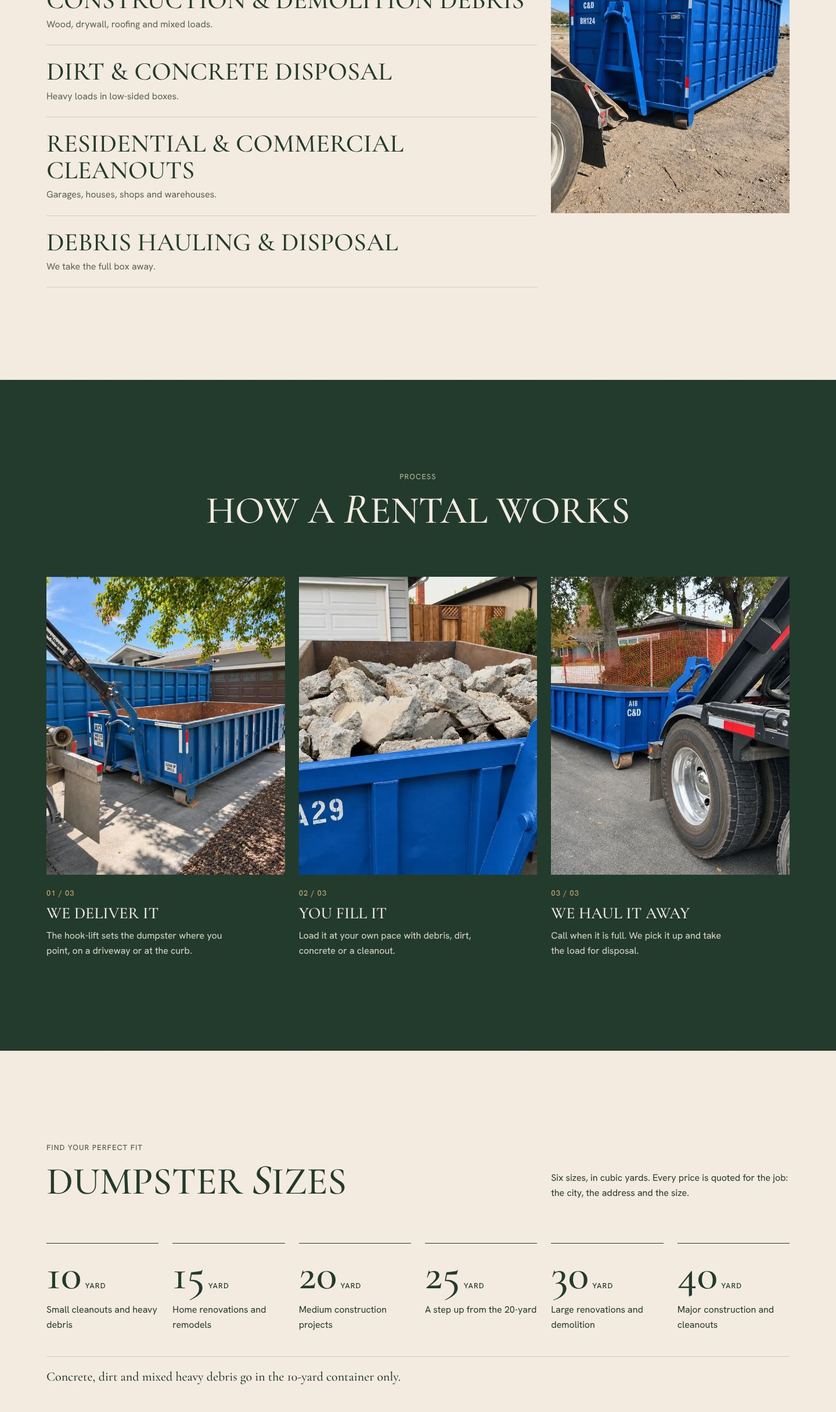
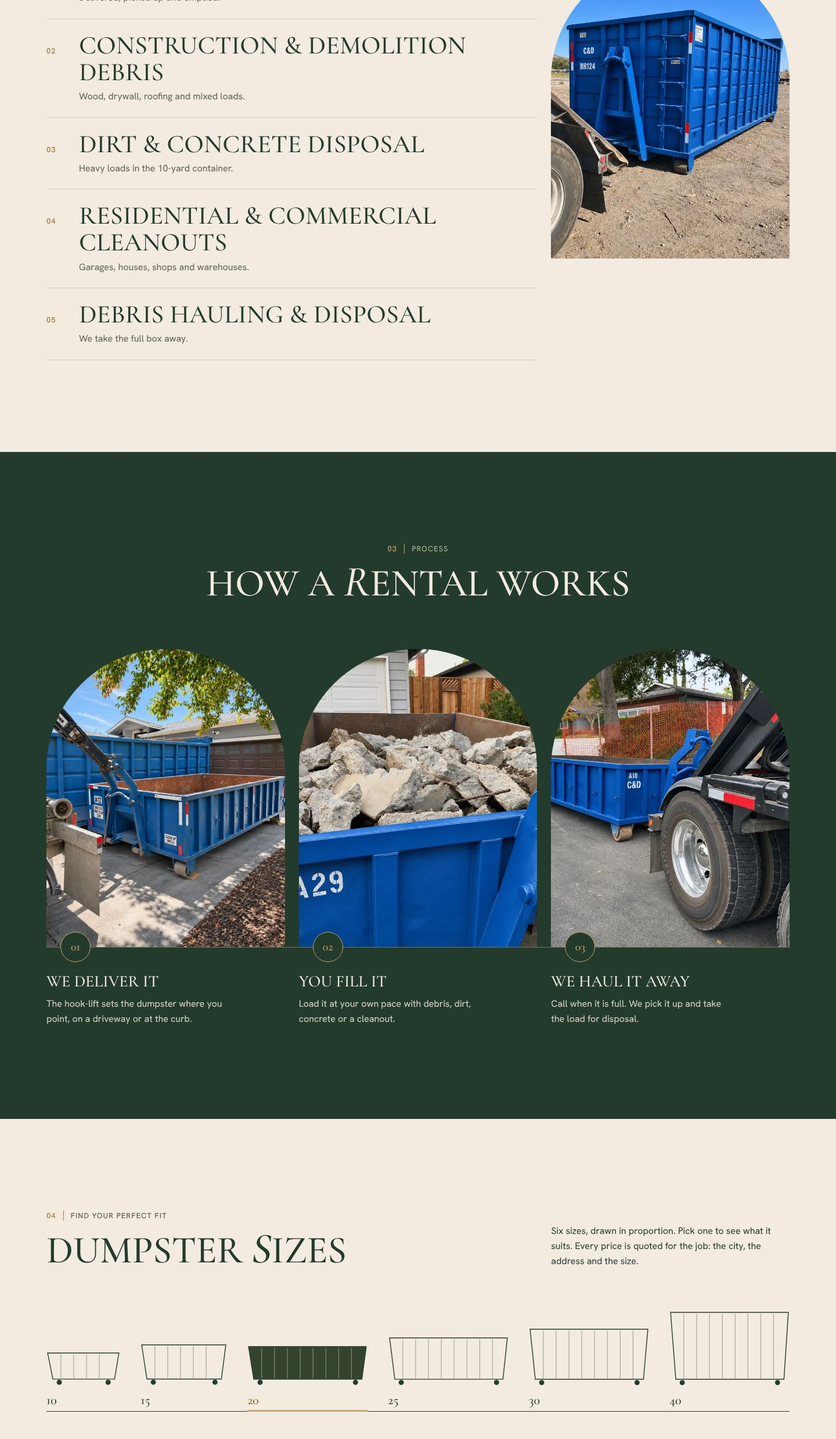
Landing page: add signature elements
Gold halo arc over the hero truck, rotating quote seal, arched photos,
numbered section labels and service rows, a to-proportion size picker
and a region picker for the service area.

Claude-Session: https://claude.ai/code/session_01D1zbuP5dsXHYhoAWNQLH19

diff --git a/index.html b/index.html
@@ -1,5 +1,5 @@
 <!doctype html>
-<html lang="en">
+<html lang="en" class="no-js">
 <head>
 <meta charset="utf-8">
 <meta name="viewport" content="width=device-width, initial-scale=1, viewport-fit=cover">
@@ -17,6 +17,7 @@
 <link rel="preconnect" href="https://fonts.googleapis.com">
 <link rel="preconnect" href="https://fonts.gstatic.com" crossorigin>
 <link href="https://fonts.googleapis.com/css2?family=Cormorant+Garamond:ital,wght@0,500;1,500&family=Hanken+Grotesk:wght@400;500&display=swap" rel="stylesheet">
+<script>document.documentElement.classList.remove("no-js")</script>
 <style>
 :root {
   --cream: #f3eae0; --sand: #e8decf; --forest: #233b2c; --olive: #35442f; --sage: #a5ac8b; --gold: #c6a66b;
@@ -43,6 +44,9 @@ ul, ol { list-style: none; }
 .h2 { font: 500 clamp(36px, 4.6vw, 68px)/1 var(--serif); letter-spacing: -.005em; text-transform: uppercase; }
 .display em, .h2 em { font-style: italic; text-transform: none; font-size: 1.12em; line-height: 0; }
 .label { font: 500 13px/1.4 var(--sans); letter-spacing: .08em; text-transform: uppercase; color: var(--muted); }
+.label > span { color: var(--gold); margin-right: 12px; padding-right: 12px; border-right: 1px solid currentColor; }
+.dark .label > span, .label > span { color: #9a7a35; }
+.dark .label > span { color: var(--gold); }
 .lead { font-size: 18px; line-height: 1.6; max-width: 46ch; }
 .caps { font: 500 13px/1.3 var(--sans); letter-spacing: .08em; text-transform: uppercase; }
 
@@ -91,14 +95,31 @@ section { padding-block: clamp(80px, 11vw, 160px); }
 .hero__sub { margin: 28px auto 0; max-width: 52ch; font-size: 18px; }
 .hero__tags { margin-top: 14px; color: var(--muted); }
 .hero__actions { display: flex; justify-content: center; gap: 12px; flex-wrap: wrap; margin-top: 36px; }
-.hero__row { margin-top: clamp(56px, 7vw, 96px); display: grid; grid-template-columns: 1fr minmax(0, 980px) 1fr; gap: 24px; align-items: center; overflow: hidden; }
+.hero__row { margin-top: clamp(24px, 3vw, 40px); padding: clamp(56px, 7vw, 96px) 0 84px; display: grid; grid-template-columns: 1fr minmax(0, 980px) 1fr; gap: 24px; align-items: center; overflow: hidden; }
 .hero__row img { width: 100%; object-fit: cover; }
 .hero__row .side { height: clamp(320px, 33vw, 470px); }
 .hero__row .side--l img { object-position: 100% 50%; height: 100%; }
 .hero__row .side--r img { object-position: 0% 50%; height: 100%; }
 .hero__row .main img { aspect-ratio: 1.75; }
+.hero__row .main { position: relative; }
+.halo { position: absolute; left: -7%; width: 114%; top: clamp(-84px, -6vw, -40px); pointer-events: none; overflow: visible; }
+.halo path { fill: none; stroke: var(--gold); stroke-width: 1.6; vector-effect: non-scaling-stroke; }
+.hero__row .side, .hero__row .main picture { position: relative; z-index: 1; display: block; }
+.seal { z-index: 2; }
+.seal { position: absolute; right: -58px; bottom: -62px; width: 148px; height: 148px; border-radius: 50%; background: var(--forest); color: var(--cream); display: grid; place-items: center; text-decoration: none; transition: background-color .25s var(--ease); }
+.seal:hover { background: var(--olive); }
+.seal__ring { position: absolute; inset: 0; width: 100%; height: 100%; animation: spin 26s linear infinite; }
+.seal__ring text { font: 500 15.5px var(--sans); letter-spacing: .12em; fill: currentColor; }
+.seal__arrow { width: 34px; height: 34px; fill: none; stroke: var(--gold); stroke-width: 1.4; transition: transform .3s var(--ease); }
+.seal:hover .seal__arrow { transform: translate(3px, -3px); }
+@keyframes spin { to { transform: rotate(360deg); } }
+.is-still .seal__ring, .is-still .marquee__track { animation-play-state: paused; }
+@media (max-width: 1199px) { .seal { right: 16px; } }
 @media (max-width: 639px) {
-  .hero__row { grid-template-columns: 1fr; padding-inline: var(--gut); }
+  .hero__row { grid-template-columns: 1fr; padding-inline: var(--gut); padding-bottom: 64px; }
+  .seal { width: 112px; height: 112px; right: 12px; bottom: -48px; }
+  .seal__arrow { width: 26px; height: 26px; }
+  .halo { left: -4%; width: 108%; top: -34px; }
   .hero__row .side { display: none; }
   .hero__row .main img { aspect-ratio: 1; }
   .hero__actions .btn { flex: 1 1 100%; }
@@ -106,6 +127,7 @@ section { padding-block: clamp(80px, 11vw, 160px); }
 
 /* intro: label and heading left, words right */
 .split { display: grid; grid-template-columns: repeat(12, minmax(0, 1fr)); gap: 24px; }
+.intro { position: relative; overflow: hidden; }
 .intro__head { grid-column: 1 / span 6; }
 .intro__head .h2 { margin-top: 16px; }
 .intro__body { grid-column: 8 / span 5; padding-top: 34px; display: grid; gap: 32px; }
@@ -121,13 +143,16 @@ section { padding-block: clamp(80px, 11vw, 160px); }
 .services__head .h2 { margin-top: 16px; }
 .services__grid { display: grid; grid-template-columns: repeat(12, minmax(0, 1fr)); gap: 24px; align-items: start; }
 .svc { grid-column: 1 / span 8; }
-.svc li { padding: 22px 0; border-bottom: 1px solid var(--line); transition: opacity .25s var(--ease); }
+.svc li { display: grid; grid-template-columns: 56px minmax(0, 1fr); align-items: baseline; padding: 22px 0; border-bottom: 1px solid var(--line); position: relative; transition: opacity .25s var(--ease), padding-left .35s var(--ease); }
+.svc li::after { content: ""; position: absolute; left: 0; bottom: -1px; height: 1px; width: 0; background: var(--gold); transition: width .5s var(--ease); }
+.svc__n { font: 500 13px/1 var(--sans); letter-spacing: .08em; color: #9a7a35; }
+@media (hover: hover) { .svc li:hover { padding-left: 16px; } .svc li:hover::after { width: 100%; } }
 .svc li:first-child { padding-top: 0; }
 .svc h3 { font: 500 clamp(26px, 3.1vw, 44px)/1.05 var(--serif); text-transform: uppercase; }
 .svc p { margin-top: 6px; color: var(--muted); }
 @media (hover: hover) { .svc:hover li:not(:hover) { opacity: .45; } }
 .services__photo { grid-column: 9 / span 4; position: sticky; top: calc(var(--nav) + 24px); }
-.services__photo img { width: 100%; aspect-ratio: 4 / 5; object-fit: cover; }
+.services__photo img { width: 100%; aspect-ratio: 4 / 5; object-fit: cover; border-radius: 999px 999px 0 0; }
 @media (max-width: 1023px) { .svc { grid-column: 1 / -1; } .services__photo { grid-column: 1 / -1; position: static; } .services__photo img { aspect-ratio: 4 / 3; } }
 
 /* process: the dark band */
@@ -136,9 +161,11 @@ section { padding-block: clamp(80px, 11vw, 160px); }
 .process__head { text-align: center; margin-bottom: clamp(48px, 6vw, 80px); }
 .process__head .h2 { margin-top: 16px; }
 .steps { display: grid; grid-template-columns: repeat(3, minmax(0, 1fr)); gap: 24px; }
-.step img { width: 100%; aspect-ratio: 4 / 5; object-fit: cover; }
-.step__n { display: block; margin-top: 24px; color: var(--gold); }
-.step h3 { margin-top: 10px; font: 500 28px/1.1 var(--serif); text-transform: uppercase; }
+.step { position: relative; }
+.step img { width: 100%; aspect-ratio: 4 / 5; object-fit: cover; border-radius: 999px 999px 0 0; }
+.step__n { position: relative; z-index: 1; display: grid; place-items: center; width: 52px; height: 52px; margin: -26px 0 0 24px; border-radius: 50%; background: var(--forest); border: 1px solid var(--gold); color: var(--gold); font: 500 20px/1 var(--serif); }
+@media (min-width: 1024px) { .steps::before { content: ""; position: absolute; left: 0; right: 0; height: 1px; background: var(--gold); opacity: .55; top: var(--line-y, 0); } .steps { position: relative; } }
+.step h3 { margin-top: 18px; font: 500 28px/1.1 var(--serif); text-transform: uppercase; }
 .step p { margin-top: 10px; max-width: 34ch; color: #dcd6c9; }
 @media (max-width: 1023px) { .steps { grid-template-columns: 1fr; gap: 56px; } .step { display: grid; grid-template-columns: minmax(0, 5fr) minmax(0, 7fr); column-gap: 24px; align-content: end; } .step img { grid-row: 1 / span 4; } .step > :not(img) { grid-column: 2; } }
 @media (max-width: 639px) { .step { display: block; } }
@@ -171,13 +198,47 @@ section { padding-block: clamp(80px, 11vw, 160px); }
 @media (max-width: 1023px) { .mat__col:first-child, .mat__col:last-child { grid-column: 1 / -1; } }
 
 /* service area: on the dark band */
-.regions { display: grid; grid-template-columns: repeat(2, minmax(0, 1fr)); gap: 0 24px; }
-.regions > div { padding: 28px 0; border-top: 1px solid rgba(243, 234, 224, .22); }
-.regions > div:nth-child(3) { grid-column: 1 / -1; }
-.regions dt { font: 500 28px/1.1 var(--serif); text-transform: uppercase; margin-bottom: 12px; }
-.regions dd { color: #dcd6c9; max-width: 110ch; }
-.areas__note { margin-top: 8px; padding-top: 28px; border-top: 1px solid rgba(243, 234, 224, .22); color: var(--sage); }
-@media (max-width: 767px) { .regions { grid-template-columns: 1fr; } }
+.regions { display: grid; grid-template-columns: repeat(12, minmax(0, 1fr)); gap: 32px 24px; align-items: start; }
+.regions__tabs { grid-column: 1 / span 6; display: grid; }
+.regions__tabs button { all: unset; box-sizing: border-box; cursor: pointer; display: block; padding: 14px 0; border-top: 1px solid rgba(243, 234, 224, .22);
+  font: 500 clamp(26px, 3.2vw, 46px)/1.05 var(--serif); text-transform: uppercase; color: rgba(243, 234, 224, .42); transition: color .25s var(--ease), padding-left .35s var(--ease); }
+.regions__tabs button:last-child { border-bottom: 1px solid rgba(243, 234, 224, .22); }
+.regions__tabs sup { font: 500 13px/1 var(--sans); letter-spacing: .08em; color: var(--gold); margin-left: 10px; vertical-align: .9em; }
+.regions__tabs button:hover { color: rgba(243, 234, 224, .8); }
+.regions__tabs button[aria-selected="true"] { color: var(--cream); padding-left: 20px; }
+.regions__tabs button:focus-visible { outline: 2px solid var(--gold); outline-offset: 2px; }
+.regions__panels { grid-column: 8 / span 5; padding-top: 14px; }
+.regions__panels p { font-size: 18px; line-height: 1.75; color: #e6e0d3; }
+.no-js .regions__panels p[hidden] { display: block; margin-top: 20px; }
+.areas__note { margin-top: 40px; color: var(--sage); }
+@media (max-width: 1023px) { .regions__tabs, .regions__panels { grid-column: 1 / -1; } .regions__panels { padding-top: 0; min-height: 9em; } .regions__tabs button[aria-selected="true"] { padding-left: 12px; } }
+
+.sizer { display: grid; gap: 40px; }
+.arrow-link { display: inline-flex; align-items: center; gap: 32px; padding-bottom: 6px; border-bottom: 1px solid currentColor; text-decoration: none; }
+.arrow-link svg { width: 16px; height: 16px; flex: none; transition: transform .25s var(--ease); }
+.arrow-link:hover svg { transform: translateX(4px); }
+.sizer__detail { display: grid; grid-template-columns: auto minmax(0, 1fr) auto; gap: 24px 56px; align-items: end; }
+.sizer__row { --k: 1.38; display: flex; align-items: flex-end; justify-content: space-between; gap: 14px; border-bottom: 1px solid var(--forest); padding-bottom: 0; }
+.sizer__b { flex: 0 1 auto; background: none; border: 0; padding: 0 0 44px; position: relative; color: var(--forest); cursor: pointer; }
+.sizer__b svg { display: block; width: calc(var(--w) * var(--k) * 1px); height: auto; overflow: visible; }
+.sizer__b .box { fill: transparent; stroke: currentColor; stroke-width: 1.4; vector-effect: non-scaling-stroke; transition: fill .3s var(--ease); }
+.sizer__b .ribs path { stroke: currentColor; stroke-width: 1; vector-effect: non-scaling-stroke; opacity: .45; fill: none; }
+.sizer__b circle { fill: currentColor; }
+.sizer__b span { position: absolute; left: 0; bottom: 8px; font: 500 22px/1 var(--serif); }
+.sizer__b:hover .box { fill: rgba(53, 68, 47, .14); }
+.sizer__b[aria-pressed="true"] .box { fill: var(--olive); }
+.sizer__b[aria-pressed="true"] .ribs path { stroke: var(--cream); opacity: .5; }
+.sizer__b[aria-pressed="true"] span { color: #7d6226; }
+.sizer__b[aria-pressed="true"]::after { content: ""; position: absolute; left: 0; right: 0; bottom: -1px; height: 3px; background: var(--gold); }
+.sizer__num { font: 500 clamp(96px, 10vw, 148px)/.8 var(--serif); display: flex; align-items: flex-end; gap: 12px; }
+.sizer__num small { font: 500 13px/1.2 var(--sans); letter-spacing: .08em; text-transform: uppercase; padding-bottom: 10px; }
+.sizer__use { font: 500 clamp(22px, 2.4vw, 32px)/1.2 var(--serif); padding-bottom: 6px; }
+.sizer__detail .arrow-link { margin-bottom: 10px; }
+@media (max-width: 1359px) { .sizer__row { --k: 1.15; } }
+@media (max-width: 1099px) { .sizer__row { --k: .86; } }
+@media (max-width: 899px) { .sizer__row { --k: .68; gap: 8px; } .sizer__detail { grid-template-columns: 1fr; gap: 16px; } .sizer__detail .arrow-link { justify-self: start; } }
+@media (max-width: 699px) { .sizer__row { --k: .5; } }
+@media (max-width: 599px) { .sizer__row { --k: .36; gap: 6px; } .sizer__b { padding-bottom: 36px; min-width: 40px; } .sizer__b span { font-size: 18px; } }
 
 /* questions */
 .faq-wrap { border-top: 0; }
@@ -243,6 +304,8 @@ section { padding-block: clamp(80px, 11vw, 160px); }
   .services__photo img, .quote__photo img { aspect-ratio: 4 / 3; }
   .step img { aspect-ratio: 4 / 3; }
   .step + .step { margin-top: 0; }
+  .step img, .services__photo img { border-radius: 171px 171px 0 0; aspect-ratio: 1 / 1; }
+  .sizer__b { min-height: 48px; }
 }
 
 /* phone bar */
@@ -261,7 +324,7 @@ section { padding-block: clamp(80px, 11vw, 160px); }
 }
 @keyframes rise { from { opacity: 0; transform: translateY(14px); } }
 @keyframes fade { from { opacity: 0; } }
-@media (prefers-reduced-motion: reduce) { .marquee__track { animation: none; } *, *::before, *::after { transition: none !important; } }
+@media (prefers-reduced-motion: reduce) { .marquee__track, .seal__ring { animation: none; } *, *::before, *::after { transition: none !important; } }
 </style>
 </head>
 <body>
@@ -300,7 +363,17 @@ section { padding-block: clamp(80px, 11vw, 160px); }
     </div>
     <div class="hero__row">
       <div class="side side--l"><img src="img/hero-left-dock.webp" alt="" width="620" height="795" decoding="async"></div>
-      <div class="main"><picture><source media="(max-width: 639px)" srcset="img/hero-truck-phone.webp"><img src="img/hero-truck.webp" alt="The Halo Hauling hook-lift truck carrying a blue roll-off dumpster, the Halo logo on its mud flap" width="1201" height="686" fetchpriority="high"></picture></div>
+      <div class="main">
+        <svg class="halo" viewBox="0 0 1000 240" aria-hidden="true"><path d="M4 236 C 180 -70, 820 -70, 996 236"/></svg>
+        <picture><source media="(max-width: 639px)" srcset="img/hero-truck-phone.webp"><img src="img/hero-truck.webp" alt="The Halo Hauling hook-lift truck carrying a blue roll-off dumpster, the Halo logo on its mud flap" width="1201" height="686" fetchpriority="high"></picture>
+        <a class="seal" href="#quote" aria-label="Get a quote">
+          <svg class="seal__ring" viewBox="0 0 200 200" aria-hidden="true">
+            <defs><path id="seal-p" d="M100 100 m-74 0 a74 74 0 1 1 148 0 a74 74 0 1 1 -148 0"/></defs>
+            <text><textPath href="#seal-p" textLength="452">GET A QUOTE &#10022; HALO HAULING &#10022; BAY AREA &#10022;</textPath></text>
+          </svg>
+          <svg class="seal__arrow" viewBox="0 0 24 24" aria-hidden="true"><path d="M6 18 18 6M9 6h9v9"/></svg>
+        </a>
+      </div>
       <div class="side side--r"><img src="img/hero-right-curb.webp" alt="" width="620" height="795" decoding="async"></div>
     </div>
   </section>
@@ -308,7 +381,7 @@ section { padding-block: clamp(80px, 11vw, 160px); }
   <section class="intro" aria-labelledby="intro-h">
     <div class="wrap split">
       <div class="intro__head">
-        <p class="label">About Halo Hauling</p>
+        <p class="label"><span>01</span>About Halo Hauling</p>
         <h2 class="h2" id="intro-h">Your project, <br>our <em>P</em>riority</h2>
       </div>
       <div class="intro__body">
@@ -327,17 +400,17 @@ section { padding-block: clamp(80px, 11vw, 160px); }
   <section class="services" id="services" aria-labelledby="services-h">
     <div class="wrap">
       <div class="services__head">
-        <p class="label">Services</p>
+        <p class="label"><span>02</span>Services</p>
         <h2 class="h2" id="services-h">What we <em>H</em>aul</h2>
       </div>
       <div class="services__grid">
-        <ul class="svc">
-          <li><h3>Roll-off dumpster rentals</h3><p>Delivered, picked up and emptied.</p></li>
-          <li><h3>Construction &amp; demolition debris</h3><p>Wood, drywall, roofing and mixed loads.</p></li>
-          <li><h3>Dirt &amp; concrete disposal</h3><p>Heavy loads in low-sided boxes.</p></li>
-          <li><h3>Residential &amp; commercial cleanouts</h3><p>Garages, houses, shops and warehouses.</p></li>
-          <li><h3>Debris hauling &amp; disposal</h3><p>We take the full box away.</p></li>
-        </ul>
+        <ol class="svc">
+          <li><span class="svc__n">01</span><div><h3>Roll-off dumpster rentals</h3><p>Delivered, picked up and emptied.</p></div></li>
+          <li><span class="svc__n">02</span><div><h3>Construction &amp; demolition debris</h3><p>Wood, drywall, roofing and mixed loads.</p></div></li>
+          <li><span class="svc__n">03</span><div><h3>Dirt &amp; concrete disposal</h3><p>Heavy loads in the 10-yard container.</p></div></li>
+          <li><span class="svc__n">04</span><div><h3>Residential &amp; commercial cleanouts</h3><p>Garages, houses, shops and warehouses.</p></div></li>
+          <li><span class="svc__n">05</span><div><h3>Debris hauling &amp; disposal</h3><p>We take the full box away.</p></div></li>
+        </ol>
         <figure class="services__photo"><img src="img/services-cd-box.webp" alt="A tall blue construction and demolition dumpster on an open lot" width="820" height="1025" loading="lazy" decoding="async"></figure>
       </div>
     </div>
@@ -346,25 +419,25 @@ section { padding-block: clamp(80px, 11vw, 160px); }
   <section class="dark process" id="process" aria-labelledby="process-h">
     <div class="wrap">
       <div class="process__head">
-        <p class="label">Process</p>
+        <p class="label"><span>03</span>Process</p>
         <h2 class="h2" id="process-h">How a <em>R</em>ental works</h2>
       </div>
       <ol class="steps">
         <li class="step">
           <img src="img/step-delivery.webp" alt="The hook-lift lowering a blue dumpster onto a house driveway" width="640" height="800" loading="lazy" decoding="async">
-          <span class="step__n caps">01 / 03</span>
+          <span class="step__n">01</span>
           <h3>We deliver it</h3>
           <p>The hook-lift sets the dumpster where you point, on a driveway or at the curb.</p>
         </li>
         <li class="step">
           <img src="img/step-fill.webp" alt="A blue dumpster filled with broken concrete in front of a garage" width="640" height="800" loading="lazy" decoding="async">
-          <span class="step__n caps">02 / 03</span>
+          <span class="step__n">02</span>
           <h3>You fill it</h3>
           <p>Load it at your own pace with debris, dirt, concrete or a cleanout.</p>
         </li>
         <li class="step">
           <img src="img/step-pickup.webp" alt="The truck backing up to a blue dumpster at the curb" width="640" height="800" loading="lazy" decoding="async">
-          <span class="step__n caps">03 / 03</span>
+          <span class="step__n">03</span>
           <h3>We haul it away</h3>
           <p>Call when it is full. We pick it up and take the load for disposal.</p>
         </li>
@@ -376,19 +449,26 @@ section { padding-block: clamp(80px, 11vw, 160px); }
     <div class="wrap">
       <div class="sizes__head">
         <div>
-          <p class="label">Find your perfect fit</p>
+          <p class="label"><span>04</span>Find your perfect fit</p>
           <h2 class="h2" id="sizes-h">Dumpster <em>S</em>izes</h2>
         </div>
-        <p>Six sizes, in cubic yards. Every price is quoted for the job: the city, the address and the size.</p>
+        <p>Six sizes, drawn in proportion. Pick one to see what it suits. Every price is quoted for the job: the city, the address and the size.</p>
       </div>
-      <ul class="size-row">
-        <li class="size"><p class="size__n">10<span>yard</span></p><p>Small cleanouts and heavy debris</p></li>
-        <li class="size"><p class="size__n">15<span>yard</span></p><p>Home renovations and remodels</p></li>
-        <li class="size"><p class="size__n">20<span>yard</span></p><p>Medium construction projects</p></li>
-        <li class="size"><p class="size__n">25<span>yard</span></p><p>A step up from the 20-yard</p></li>
-        <li class="size"><p class="size__n">30<span>yard</span></p><p>Large renovations and demolition</p></li>
-        <li class="size"><p class="size__n">40<span>yard</span></p><p>Major construction and cleanouts</p></li>
-      </ul>
+      <div class="sizer" data-sizer>
+        <div class="sizer__row">
+          <button class="sizer__b" type="button" data-yd="10" data-use="Small cleanouts and heavy debris" aria-pressed="false" aria-label="10 cubic yards: Small cleanouts and heavy debris"><svg viewBox="0 0 92 42" style="--w:92" aria-hidden="true"><path class="box" d="M1.5 1.5H90.5L85 34H8Z"/><g class="ribs"><path d="M18 3V33"/><path d="M34 3V33"/><path d="M50 3V33"/><path d="M66 3V33"/></g><circle cx="16" cy="38" r="3.2"/><circle cx="77" cy="38" r="3.2"/></svg><span>10</span></button>
+          <button class="sizer__b" type="button" data-yd="15" data-use="Home renovations and remodels" aria-pressed="false" aria-label="15 cubic yards: Home renovations and remodels"><svg viewBox="0 0 108 52" style="--w:108" aria-hidden="true"><path class="box" d="M1.5 1.5H106.5L101 44H8Z"/><g class="ribs"><path d="M18 3V43"/><path d="M34 3V43"/><path d="M50 3V43"/><path d="M66 3V43"/><path d="M82 3V43"/></g><circle cx="16" cy="48" r="3.2"/><circle cx="93" cy="48" r="3.2"/></svg><span>15</span></button>
+          <button class="sizer__b" type="button" data-yd="20" data-use="Medium construction projects" aria-pressed="true" aria-label="20 cubic yards: Medium construction projects"><svg viewBox="0 0 150 50" style="--w:150" aria-hidden="true"><path class="box" d="M1.5 1.5H148.5L143 42H8Z"/><g class="ribs"><path d="M18 3V41"/><path d="M34 3V41"/><path d="M50 3V41"/><path d="M66 3V41"/><path d="M82 3V41"/><path d="M98 3V41"/><path d="M114 3V41"/><path d="M130 3V41"/></g><circle cx="16" cy="46" r="3.2"/><circle cx="135" cy="46" r="3.2"/></svg><span>20</span></button>
+          <button class="sizer__b" type="button" data-yd="25" data-use="A step up from the 20-yard" aria-pressed="false" aria-label="25 cubic yards: A step up from the 20-yard"><svg viewBox="0 0 150 61" style="--w:150" aria-hidden="true"><path class="box" d="M1.5 1.5H148.5L143 53H8Z"/><g class="ribs"><path d="M18 3V52"/><path d="M34 3V52"/><path d="M50 3V52"/><path d="M66 3V52"/><path d="M82 3V52"/><path d="M98 3V52"/><path d="M114 3V52"/><path d="M130 3V52"/></g><circle cx="16" cy="57" r="3.2"/><circle cx="135" cy="57" r="3.2"/></svg><span>25</span></button>
+          <button class="sizer__b" type="button" data-yd="30" data-use="Large renovations and demolition" aria-pressed="false" aria-label="30 cubic yards: Large renovations and demolition"><svg viewBox="0 0 150 72" style="--w:150" aria-hidden="true"><path class="box" d="M1.5 1.5H148.5L143 64H8Z"/><g class="ribs"><path d="M18 3V63"/><path d="M34 3V63"/><path d="M50 3V63"/><path d="M66 3V63"/><path d="M82 3V63"/><path d="M98 3V63"/><path d="M114 3V63"/><path d="M130 3V63"/></g><circle cx="16" cy="68" r="3.2"/><circle cx="135" cy="68" r="3.2"/></svg><span>30</span></button>
+          <button class="sizer__b" type="button" data-yd="40" data-use="Major construction and cleanouts" aria-pressed="false" aria-label="40 cubic yards: Major construction and cleanouts"><svg viewBox="0 0 150 93" style="--w:150" aria-hidden="true"><path class="box" d="M1.5 1.5H148.5L143 85H8Z"/><g class="ribs"><path d="M18 3V84"/><path d="M34 3V84"/><path d="M50 3V84"/><path d="M66 3V84"/><path d="M82 3V84"/><path d="M98 3V84"/><path d="M114 3V84"/><path d="M130 3V84"/></g><circle cx="16" cy="89" r="3.2"/><circle cx="135" cy="89" r="3.2"/></svg><span>40</span></button>
+        </div>
+        <div class="sizer__detail" aria-live="polite">
+          <p class="sizer__num"><span data-sizer-yd>20</span><small>cubic yards</small></p>
+          <p class="sizer__use" data-sizer-use>Medium construction projects</p>
+          <a class="arrow-link caps" href="#quote">Quote this size<svg viewBox="0 0 16 16" aria-hidden="true"><path d="M2 8h11M9 4l4 4-4 4" fill="none" stroke="currentColor" stroke-width="1.2"/></svg></a>
+        </div>
+      </div>
       <p class="sizes__note">Concrete, dirt and mixed heavy debris go in the 10-yard container only.</p>
     </div>
   </section>
@@ -396,7 +476,7 @@ section { padding-block: clamp(80px, 11vw, 160px); }
   <section class="materials" id="materials" aria-labelledby="materials-h">
     <div class="wrap">
       <div class="services__head">
-        <p class="label">Materials</p>
+        <p class="label"><span>05</span>Materials</p>
         <h2 class="h2" id="materials-h">What goes <em>I</em>n</h2>
       </div>
       <div class="mat">
@@ -424,16 +504,25 @@ section { padding-block: clamp(80px, 11vw, 160px); }
   <section class="dark areas" id="areas" aria-labelledby="areas-h">
     <div class="wrap">
       <div class="process__head">
-        <p class="label">Service area</p>
+        <p class="label"><span>06</span>Service area</p>
         <h2 class="h2" id="areas-h">Where we <em>D</em>eliver</h2>
       </div>
-      <dl class="regions">
-        <div><dt>South Bay</dt><dd>San Jose, Alviso, Campbell, Cupertino, Gilroy, Los Altos, Los Altos Hills, Los Gatos, Milpitas, Monte Sereno, Morgan Hill, Mountain View, Palo Alto, San Martin, Santa Clara, Saratoga, Sunnyvale</dd></div>
-        <div><dt>Peninsula and San Francisco</dt><dd>Atherton, Belmont, Daly City, East Palo Alto, Foster City, Half Moon Bay, Hillsborough, Menlo Park, Millbrae, Pacifica, Portola Valley, Redwood City, San Bruno, San Carlos, San Francisco, San Mateo, Woodside</dd></div>
-        <div><dt>East Bay</dt><dd>Alameda, Alamo, Albany, Berkeley, Brentwood, Byron, Castro Valley, Clayton, Concord, Crockett, Danville, Diablo, Discovery Bay, Dublin, El Cerrito, El Sobrante, Emeryville, Fremont, Hercules, Kensington, Lafayette, Livermore, Martinez, Newark, Oakland, Oakley, Orinda, Pacheco, Piedmont, Pinole, Pittsburg, Pleasant Hill, Pleasanton, Richmond, Rodeo, San Leandro, San Lorenzo, San Pablo, San Ramon, Sunol, Union City, Walnut Creek</dd></div>
-        <div><dt>North Bay</dt><dd>Benicia, Corte Madera, Fairfield, Greenbrae, Larkspur, Mill Valley, Napa, Novato, San Anselmo, San Rafael, Vallejo</dd></div>
-        <div><dt>Sacramento area</dt><dd>Antelope, Arcade, Arden Town, Carmichael, Citrus Heights, Courtland, Del Paso Heights, Elk Grove, Elverta, Fair Oaks, Franklin, Freeport, Fruitridge Manor, Gold River, Herald, La Riviera, North Highlands, North Sacramento, Oak Park, Orangevale, Rancho Cordova, Rio Linda, Rosemont, South Sacramento, Vacaville, Vineyard, Wilton</dd></div>
-      </dl>
+      <div class="regions" data-regions>
+        <div class="regions__tabs" role="tablist" aria-label="Regions">
+          <button role="tab" type="button" id="rt-1" aria-controls="rp-1" aria-selected="true">South Bay<sup>17</sup></button>
+          <button role="tab" type="button" id="rt-2" aria-controls="rp-2" aria-selected="false" tabindex="-1">Peninsula &amp; San Francisco<sup>17</sup></button>
+          <button role="tab" type="button" id="rt-3" aria-controls="rp-3" aria-selected="false" tabindex="-1">East Bay<sup>42</sup></button>
+          <button role="tab" type="button" id="rt-4" aria-controls="rp-4" aria-selected="false" tabindex="-1">North Bay<sup>11</sup></button>
+          <button role="tab" type="button" id="rt-5" aria-controls="rp-5" aria-selected="false" tabindex="-1">Sacramento area<sup>27</sup></button>
+        </div>
+        <div class="regions__panels">
+          <p role="tabpanel" id="rp-1" aria-labelledby="rt-1" tabindex="0">San Jose, Alviso, Campbell, Cupertino, Gilroy, Los Altos, Los Altos Hills, Los Gatos, Milpitas, Monte Sereno, Morgan Hill, Mountain View, Palo Alto, San Martin, Santa Clara, Saratoga, Sunnyvale</p>
+          <p role="tabpanel" id="rp-2" aria-labelledby="rt-2" tabindex="0" hidden>Atherton, Belmont, Daly City, East Palo Alto, Foster City, Half Moon Bay, Hillsborough, Menlo Park, Millbrae, Pacifica, Portola Valley, Redwood City, San Bruno, San Carlos, San Francisco, San Mateo, Woodside</p>
+          <p role="tabpanel" id="rp-3" aria-labelledby="rt-3" tabindex="0" hidden>Alameda, Alamo, Albany, Berkeley, Brentwood, Byron, Castro Valley, Clayton, Concord, Crockett, Danville, Diablo, Discovery Bay, Dublin, El Cerrito, El Sobrante, Emeryville, Fremont, Hercules, Kensington, Lafayette, Livermore, Martinez, Newark, Oakland, Oakley, Orinda, Pacheco, Piedmont, Pinole, Pittsburg, Pleasant Hill, Pleasanton, Richmond, Rodeo, San Leandro, San Lorenzo, San Pablo, San Ramon, Sunol, Union City, Walnut Creek</p>
+          <p role="tabpanel" id="rp-4" aria-labelledby="rt-4" tabindex="0" hidden>Benicia, Corte Madera, Fairfield, Greenbrae, Larkspur, Mill Valley, Napa, Novato, San Anselmo, San Rafael, Vallejo</p>
+          <p role="tabpanel" id="rp-5" aria-labelledby="rt-5" tabindex="0" hidden>Antelope, Arcade, Arden Town, Carmichael, Citrus Heights, Courtland, Del Paso Heights, Elk Grove, Elverta, Fair Oaks, Franklin, Freeport, Fruitridge Manor, Gold River, Herald, La Riviera, North Highlands, North Sacramento, Oak Park, Orangevale, Rancho Cordova, Rio Linda, Rosemont, South Sacramento, Vacaville, Vineyard, Wilton</p>
+        </div>
+      </div>
       <p class="areas__note">Not on the list? Send the job address and we confirm.</p>
     </div>
   </section>
@@ -441,7 +530,7 @@ section { padding-block: clamp(80px, 11vw, 160px); }
   <section class="faq-wrap" id="questions" aria-labelledby="questions-h">
     <div class="wrap split">
       <div class="faq__head">
-        <p class="label">Questions</p>
+        <p class="label"><span>07</span>Questions</p>
         <h2 class="h2" id="questions-h">Before you <em>R</em>ent</h2>
         <p>Something else to ask? Call <a href="tel:+14084421117">408-442-1117</a>.</p>
       </div>
@@ -458,7 +547,7 @@ section { padding-block: clamp(80px, 11vw, 160px); }
   <section class="quote" id="quote" aria-labelledby="quote-h">
     <div class="wrap">
       <div class="quote__head">
-        <p class="label">Request a quote</p>
+        <p class="label"><span>08</span>Request a quote</p>
         <h2 class="display" id="quote-h">Rent a dumpster <em>T</em>his week</h2>
         <p>Send the size, the material, the address and the day. We call back with a price.</p>
       </div>
@@ -536,11 +625,33 @@ section { padding-block: clamp(80px, 11vw, 160px); }
   const icons = { pause: '<svg width="12" height="12" viewBox="0 0 12 12" aria-hidden="true"><path d="M3 2v8M9 2v8" stroke="currentColor" stroke-width="1.6" stroke-linecap="round"/></svg>',
                   play: '<svg width="12" height="12" viewBox="0 0 12 12" aria-hidden="true"><path d="M3 2l7 4-7 4z" fill="currentColor"/></svg>' };
   p.addEventListener('click', () => {
-    const on = m.classList.toggle('is-paused');
+    const on = m.classList.toggle('is-paused'); document.body.classList.toggle('is-still', on);
     p.setAttribute('aria-pressed', String(on));
     p.setAttribute('aria-label', on ? 'Play the moving text' : 'Pause the moving text');
     p.innerHTML = on ? icons.play : icons.pause;
   });
+
+  const sz = document.querySelector('[data-sizer]');
+  if (sz) {
+    const yd = sz.querySelector('[data-sizer-yd]'), use = sz.querySelector('[data-sizer-use]'), sel = document.getElementById('f-size');
+    const pick = b => { sz.querySelectorAll('.sizer__b').forEach(x => x.setAttribute('aria-pressed', String(x === b))); yd.textContent = b.dataset.yd; use.textContent = b.dataset.use; };
+    sz.querySelectorAll('.sizer__b').forEach(b => b.addEventListener('click', () => pick(b)));
+    sz.querySelector('.arrow-link').addEventListener('click', () => { if (sel) sel.value = yd.textContent + '-yard'; });
+  }
+
+  const rg = document.querySelector('[data-regions]');
+  if (rg) {
+    const tabs = [...rg.querySelectorAll('[role=tab]')];
+    const show = (t, focus) => { tabs.forEach(x => { const on = x === t; x.setAttribute('aria-selected', String(on)); x.tabIndex = on ? 0 : -1; document.getElementById(x.getAttribute('aria-controls')).hidden = !on; }); if (focus) t.focus(); };
+    tabs.forEach((t, i) => {
+      t.addEventListener('click', () => show(t));
+      t.addEventListener('keydown', e => { const d = { ArrowDown: 1, ArrowRight: 1, ArrowUp: -1, ArrowLeft: -1 }[e.key]; if (d) { e.preventDefault(); show(tabs[(i + d + tabs.length) % tabs.length], true); } });
+    });
+  }
+
+  const steps = document.querySelector('.steps');
+  const setLine = () => { const n = steps.querySelector('.step__n'); steps.style.setProperty('--line-y', (n.offsetTop + n.offsetHeight / 2) + 'px'); };
+  setLine(); addEventListener('resize', setLine); addEventListener('load', setLine);
 
   const f = document.querySelector('.form'), status = f.querySelector('.form__status');
   f.addEventListener('submit', e => {
